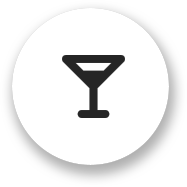
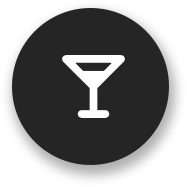
Apply different markers to different categories. When the mouse hovers over the marker, the marker image changes and the image is enlarged.

diff --git a/src/frontend/react/src/components/Map_Events.tsx b/src/frontend/react/src/components/Map_Events.tsx
@@ -3,6 +3,7 @@ import { GoogleMap, Marker, OverlayView, useLoadScript } from '@react-google-map
 import EventCard_PopUp from './EventCard_PopUp';
 
 const Map = ({ events: data }) => {
+  
   // useLoadScript hook to load google maps api
   const { isLoaded, loadError } = useLoadScript({
     googleMapsApiKey: 'AIzaSyCY1DTFE2IGNPcc54cRmnnSkLvq8VfpMMo',
@@ -92,25 +93,47 @@ const Map = ({ events: data }) => {
     ],
   };
 
-  // get different icon based on category
-  const getIconUrl = (category) => {
-    switch (category) {
-      case 'Music':
-        return '/images/event_marker/music.png';
-      case 'Art & Fashion':
-        return '/images/event_marker/art.png';
-      case 'Lectures & Books':
-        return '/images/event_marker/book.png';
-      case 'Food & Festival':
-        return '/images/event_marker/food.png';
-      case 'Sports & Active':
-        return '/images/event_marker/sports.png';
-      case 'Kids & Family':
-        return '/images/event_marker/kids.png';
-      default:
-        return '/images/event_marker/other.png';
-    }
-  };
+
+// get different icon based on category
+const getIconUrl = (category) => {
+  switch (category) {
+    case 'Music':
+      return '/images/event_marker/music.png';
+    case 'Art & Fashion':
+      return '/images/event_marker/art.png';
+    case 'Lectures & Books':
+      return '/images/event_marker/book.png';
+    case 'Food & Festival':
+      return '/images/event_marker/food.png';
+    case 'Sports & Active':
+      return '/images/event_marker/sports.png';
+    case 'Kids & Family':
+      return '/images/event_marker/kids.png';
+    default:
+      return '/images/event_marker/other.png';
+  }
+};
+
+
+const getHoverIconUrl = (category) => {
+  switch (category) {
+    case 'Music':
+      return '/images/event_marker/music_hover.png';
+    case 'Art & Fashion':
+      return '/images/event_marker/art_hover.png';
+    case 'Lectures & Books':
+      return '/images/event_marker/book_hover.png';
+    case 'Food & Festival':
+      return '/images/event_marker/food_hover.png';
+    case 'Sports & Active':
+      return '/images/event_marker/sports_hover.png';
+    case 'Kids & Family':
+      return '/images/event_marker/kids_hover.png';
+    default:
+      return '/images/event_marker/other_hover.png';
+  }
+};
+
 
   // useEffect to add markers only after the map is loaded
   useEffect(() => {
@@ -123,8 +146,8 @@ const Map = ({ events: data }) => {
             title={m.name}
             onClick={() => setSelectedMarker(m)}
             icon={{
-              url: getIconUrl(m.combined_category),
-              scaledSize: new window.google.maps.Size(hoveredMarker === m.id ? 45 : 38, hoveredMarker === m.id ? 45 : 38)
+              url: hoveredMarker===m.id || selectedMarker?.id === m.id ? getHoverIconUrl(m.combined_category):  getIconUrl(m.combined_category),
+              scaledSize: new window.google.maps.Size(hoveredMarker === m.id || selectedMarker?.id === m.id ? 45 : 38, hoveredMarker === m.id  || selectedMarker?.id === m.id? 45 : 38)
             }}
             onMouseOver={() => setHoveredMarker(m.id)}
             onMouseOut={() => setHoveredMarker(null)}
@@ -133,7 +156,7 @@ const Map = ({ events: data }) => {
       });
       setMarkers(newMarkers);
     }
-  }, [isLoaded, data, hoveredMarker]); // Include hoveredMarker to re-render markers when hovered state changes
+  }, [isLoaded, data, hoveredMarker]); 
 
   if (loadError) return <div>Error loading maps</div>;
   if (!isLoaded) return <div>Loading...</div>;
@@ -152,7 +175,6 @@ const Map = ({ events: data }) => {
       {markers}
 
       {/* when select is true, pop up a card */}
-
       {selectedMarker && (
         <OverlayView
           position={{ lat: selectedMarker.latitude, lng: selectedMarker.longitude }}

diff --git a/src/frontend/react/src/components/Map_Spots.tsx b/src/frontend/react/src/components/Map_Spots.tsx
@@ -1,6 +1,6 @@
 import React, { useState, useRef, useEffect } from 'react';
 import { GoogleMap, Marker, OverlayView, useLoadScript } from '@react-google-maps/api';
-import EventCard_PopUp from '../components/EventCard_PopUp';  
+import EventCard_PopUp from './EventCard_PopUp';  
 
 const Map = ({ events: data }) => {
   // useLoadScript hook to load google maps api

diff --git a/src/frontend/react/src/pages/spots/Spots.tsx b/src/frontend/react/src/pages/spots/Spots.tsx
@@ -1,6 +1,6 @@
 import React, { useState } from 'react';
 import { Box, Stack } from '@mui/material';
-import Map from '../../components/Map';
+import Map from '../../components/Map_Events';
 import Searchbar from '../../components/Searchbar';
 import Switch from '../../components/Switch_Spots';
 import SpotCard from '../../components/SpotCard';

diff --git a/src/frontend/react/src/components/Header.tsx b/src/frontend/react/src/components/Header.tsx
@@ -44,7 +44,8 @@ const Header: React.FC = () => {
    <DateRangePicker/>
       </Stack>
 
-      <Link to="/" className="logo" style={{color:'white'}}>NAME</Link>
+      <Link to="/" className="logo" style={{color:'white'}}>Hello,World!
+  </Link>
 
       <Stack direction="row" spacing={3}alignItems="center">
         

diff --git a/src/frontend/react/src/pages/events/Events.tsx b/src/frontend/react/src/pages/events/Events.tsx
@@ -1,5 +1,5 @@
 import React, { useEffect, useState } from 'react';
-import Map from '../../components/Map';
+import Map from '../../components/Map_Events';
 import './events.css';
 import EventCard from '../../components/EventCard';
 import Searchbar from '../../components/Searchbar';

diff --git a/src/frontend/react/src/pages/schedule/Schedule.tsx b/src/frontend/react/src/pages/schedule/Schedule.tsx
@@ -1,5 +1,5 @@
 import React from 'react';
-import Map from '../../components/Map';
+import Map from '../../components/Map_Events';
 import './schedule.css';
 import { LEFT_PADDING, LEFT_WIDTH, NAVBAR_HEIGHT } from '../../constants';
 
